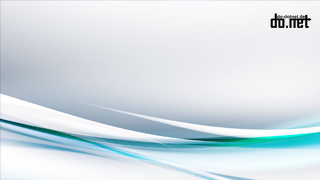
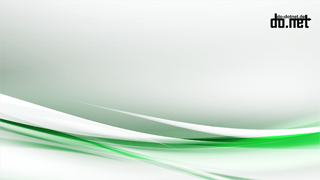
add new images

Changed region(s): [[0.0, 0.4444, 1.0, 0.9444], [0.5625, 0.9444, 0.7812, 1.0]]

diff --git a/docs/index.html b/docs/index.html
@@ -728,18 +728,28 @@
 
                 <div class="row">
                     <div class="col-md-3 col-6">
-                        <a href="images/bg-gray.png" target="_blank">
-                            <img src="images/bg-gray-m.png" alt="asure" class="image img-fluid">
-                        </a>
-                    </div>
-                    <div class="col-md-3 col-6">
                         <a href="images/bg-greenline.png" target="_blank">
                             <img src="images/bg-greenline-m.png" alt="asure" class="image img-fluid">
                         </a>
                     </div>
                     <div class="col-md-3 col-6">
-                        <a href="images/bg-greentext.png" target="_blank">
-                            <img src="images/bg-greentext-m.png" alt="asure" class="image img-fluid">
+                        <a href="images/bg-greenwhite.png" target="_blank">
+                            <img src="images/bg-greenwhite-m.png" alt="asure" class="image img-fluid">
+                        </a>
+                    </div>
+                    <div class="col-md-3 col-6">
+                        <a href="images/bg-head.png" target="_blank">
+                            <img src="images/bg-head-m.png" alt="asure" class="image img-fluid">
+                        </a>
+                    </div>
+                    <div class="col-md-3 col-6">
+                        <a href="images/bg-leo.png" target="_blank">
+                            <img src="images/bg-leo-m.png" alt="asure" class="image img-fluid">
+                        </a>
+                    </div>
+                    <div class="col-md-3 col-6">
+                        <a href="images/bg-less.png" target="_blank">
+                            <img src="images/bg-less-m.png" alt="asure" class="image img-fluid">
                         </a>
                     </div>
                     <div class="col-md-3 col-6">
@@ -747,8 +757,16 @@
                             <img src="images/bg-red-m.png" alt="asure" class="image img-fluid">
                         </a>
                     </div>
-
-
+                    <div class="col-md-3 col-6">
+                        <a href="images/bg-wallpaper.png" target="_blank">
+                            <img src="images/bg-wallpaper-m.png" alt="asure" class="image img-fluid">
+                        </a>
+                    </div>
+                    <div class="col-md-3 col-6">
+                        <a href="images/bg-white.png" target="_blank">
+                            <img src="images/bg-white-m.png" alt="asure" class="image img-fluid">
+                        </a>
+                    </div>
                 </div>
 
 

diff --git a/docs/css/main.css b/docs/css/main.css
@@ -41,6 +41,8 @@ h6 {
 h2
 {
     font-size: 36px;
+    color: #b4dc2d;
+    text-shadow: 1px 1px 1px #888;
 }
 
 h3 {

diff --git a/src/css/main.css b/src/css/main.css
@@ -41,6 +41,8 @@ h6 {
 h2
 {
     font-size: 36px;
+    color: #b4dc2d;
+    text-shadow: 1px 1px 1px #888;
 }
 
 h3 {
